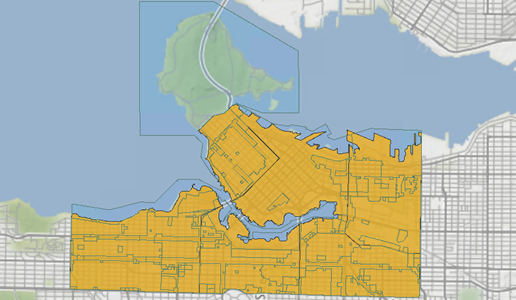
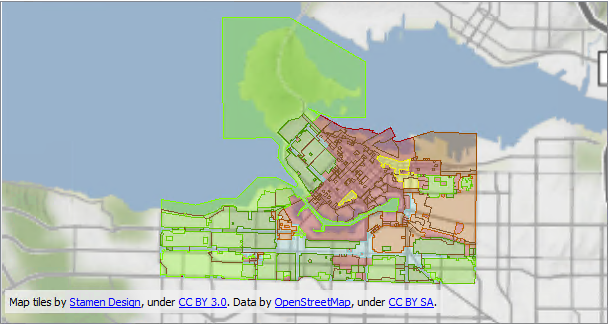
Updated 1.Exercise4.md and images
2019 review updates

diff --git a/DesktopBasic1Basics/1.Exercise4.md b/DesktopBasic1Basics/1.Exercise4.md
@@ -140,7 +140,7 @@ Click OK and then Save to close these dialogs. A background map is added to the 
 
 
 <br>**8) Filter Data**
-<br>Let's filter our data in the Data Inspector to control what is displayed. We'd like to keep all of the neighborhood layer, but only show industrially-zoned zoning districts.
+<br>Let's filter our data to control what is displayed. We'd like to keep all of the neighborhood layer, but only show industrially-zoned zoning districts.
 
 Click the Visual Preview Graphics window toolbar Filter button:
 
@@ -156,15 +156,7 @@ For the Right Value field, click in the field and type the word **Industrial** (
 
 ![](./Images/Img1.227.Ex4.OneFilterSet.png)
 
-Filtering in the Data Inspector is applied to all visible data. If you clicked OK now the Neighborhood data would also be filtered out. Therefore, we must also add a clause to enable the neighborhood data to remain on screen.
-
-Create a second test clause using the same techniques as before. This time select the attribute NeighborhoodId and select the operator **Attribute has a value**:
-
-![](./Images/Img1.228.Ex4.TwoFiltersSet.png)
-
-The Logic parameter will automatically be set to "OR", meaning each feature must **either** have an industrial zone category, **or** have a value for NeighborhoodID. For other tests you can change the logic (AND, OR, or NOT in all their permutations).
-
-Now click OK to close the dialog. The display will be filtered to show only the neighborhood features plus zones of type industrial:
+Click OK to close the dialog. The display will be filtered to show only industrial zones:
 
 ![](./Images/Img1.230.Ex4.FilteredData.png)
 <br><span style="font-style:italic;font-size:x-small">Map tiles by <a href="https://stamen.com">Stamen Design</a>, under <a href="https://creativecommons.org/licenses/by/3.0">CC-BY-3.0</a>. Data by <a href="http://openstreetmap.org">OpenStreetMap</a>, under <a href="http://creativecommons.org/licenses/by-sa/3.0">CC-BY-SA</a>.
